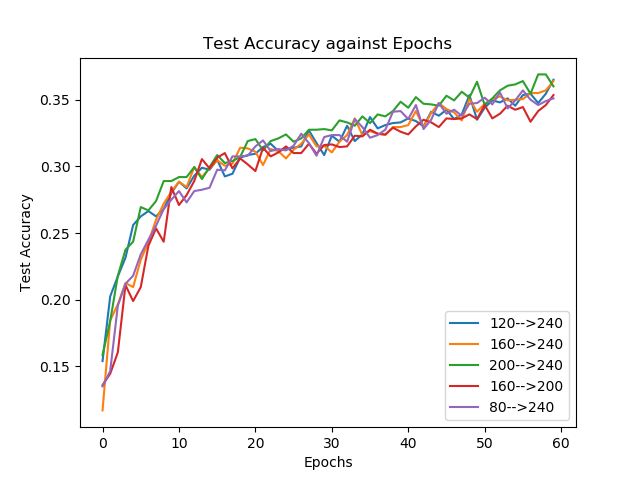
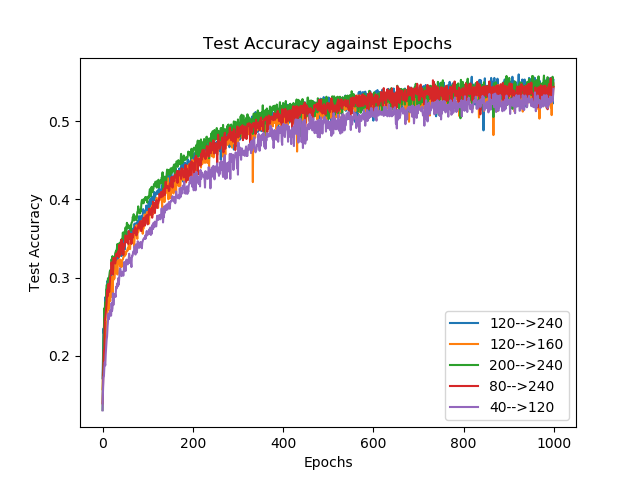
Project 2 Part A completed

diff --git a/src/part_a/part_a_qn_3.py b/src/part_a/part_a_qn_3.py
@@ -14,8 +14,8 @@ IMG_SIZE = 32
 NUM_CHANNELS = 3
 learning_rate = 0.001
 epochs = 1000
+num_c1, num_c2 = 120, 240
 batch_size = 128
-NUM_FEATURE_MAPS = [40, 80, 120, 160, 200, 240]
 
 seed = 10
 random.seed(seed)
@@ -74,12 +74,15 @@ def cnn(images, c1, c2):
 
     h_fc1 = tf.nn.relu(tf.matmul(h_pool2_flat, W_fc1) + b_fc1)
 
+    keep_prob = tf.placeholder(tf.float32)
+    h_fc1_drop = tf.nn.dropout(h_fc1, keep_prob)
+
     # Softmax layer
     W_fc2 = weight_variable([300, 10], 1.0 / np.sqrt(300), 'weights_fc2')
     b_fc2 = bias_variable([10], 'biases_fc2')
 
-    logits = tf.matmul(h_fc1, W_fc2) + b_fc2
-    return logits
+    logits = tf.matmul(h_fc1_drop, W_fc2) + b_fc2
+    return logits, keep_prob
 
 
 def weight_variable(shape, stddev, name):
@@ -106,65 +109,66 @@ def main():
     x = tf.placeholder(tf.float32, [None, IMG_SIZE * IMG_SIZE * NUM_CHANNELS])
     y_ = tf.placeholder(tf.float32, [None, NUM_CLASSES])
 
-    all_test_acc = {}
-    last_test_acc = {}
-    for c1 in range(len(NUM_FEATURE_MAPS)):
-        for c2 in range(c1 + 1, len(NUM_FEATURE_MAPS)):
-            num_c1, num_c2 = NUM_FEATURE_MAPS[c1], NUM_FEATURE_MAPS[c2]
-            label = "{}-->{}".format(num_c1, num_c2)
-            print("Feature maps combination: {}".format(label))
+    logits, keep_prob = cnn(x, num_c1, num_c2)
 
-            logits = cnn(x, num_c1, num_c2)
+    cross_entropy = tf.nn.softmax_cross_entropy_with_logits_v2(labels=y_, logits=logits)
+    loss = tf.reduce_mean(cross_entropy)
 
-            cross_entropy = tf.nn.softmax_cross_entropy_with_logits_v2(labels=y_, logits=logits)
-            loss = tf.reduce_mean(cross_entropy)
+    train_step_a = tf.train.MomentumOptimizer(learning_rate, 0.1).minimize(loss)
+    train_step_b = tf.train.RMSPropOptimizer(learning_rate).minimize(loss)
+    train_step_c = tf.train.AdamOptimizer(learning_rate).minimize(loss)
+    train_step_d = tf.train.GradientDescentOptimizer(learning_rate).minimize(loss)
 
-            train_step = tf.train.GradientDescentOptimizer(learning_rate).minimize(loss)
+    correct_prediction = tf.equal(tf.argmax(logits, 1), tf.argmax(y_, 1))
+    correct_prediction = tf.cast(correct_prediction, tf.float32)
+    accuracy = tf.reduce_mean(correct_prediction)
 
-            correct_prediction = tf.equal(tf.argmax(logits, 1), tf.argmax(y_, 1))
-            correct_prediction = tf.cast(correct_prediction, tf.float32)
-            accuracy = tf.reduce_mean(correct_prediction)
+    model_dict = {
+        "Momentum": (train_step_a, 1.0),
+        "RMSProp": (train_step_b, 1.0),
+        "Adam": (train_step_c, 1.0),
+        "Dropout": (train_step_d, 0.5)
+    }
 
-            N = len(trainX)
-            idx = np.arange(N)
-            with tf.Session() as sess:
-                sess.run(tf.global_variables_initializer())
+    N = len(trainX)
+    idx = np.arange(N)
+    with tf.Session() as sess:
 
-                test_acc = []
-                for e in range(epochs):
-                    np.random.shuffle(idx)
-                    trainX, trainY = trainX[idx], trainY[idx]
+        for model_name, model in model_dict.items():
 
-                    for start, end in zip(range(0, N, batch_size), range(batch_size, N, batch_size)):
-                        _ = sess.run([train_step], {x: trainX[start:end], y_: trainY[start:end]})
+            train_step, keep_prob_value = model
 
-                    accuracy_ = sess.run([accuracy], {x: testX, y_: testY})
-                    test_acc.append(accuracy_[0])
+            print("Model: {}".format(model_name))
+            sess.run(tf.global_variables_initializer())
 
-                    if e % (epochs // 5) == 0 or e == epochs - 1:
-                        print('epoch {0:5d}: Test Acc: {1:8.4f}'.format(e + 1, test_acc[e]))
+            train_loss = []
+            test_acc = []
+            for e in range(epochs):
+                np.random.shuffle(idx)
+                trainX, trainY = trainX[idx], trainY[idx]
 
-                all_test_acc[label] = test_acc
-                last_test_acc[label] = test_acc[-1]
+                for start, end in zip(range(0, N, batch_size), range(batch_size, N, batch_size)):
+                    _ = sess.run([train_step], {x: trainX[start:end], y_: trainY[start:end], keep_prob: keep_prob_value})
 
-    sorted_last_test_acc = {}
-    for key in sorted(last_test_acc, key=last_test_acc.get, reverse=True)[:5]:
-        sorted_last_test_acc.update({key: last_test_acc[key]})
+                loss1_ = sess.run([loss], {x: trainX[:5000], y_: trainY[:5000], keep_prob: 1.0})
+                loss2_ = sess.run([loss], {x: trainX[5000:], y_: trainY[5000:], keep_prob: 1.0})
+                accuracy_ = sess.run([accuracy], {x: testX, y_: testY, keep_prob: 1.0})
+                train_loss.append((loss1_[0] + loss2_[0])/2)
+                test_acc.append(accuracy_[0])
 
-    print(sorted_last_test_acc)
+                if e % (epochs // 10) == 0 or e == epochs - 1:
+                    print('epoch {0:5d}: Test Acc: {1:8.4f} Train Cost: {2:8.4f}'.format(e + 1, test_acc[e], train_loss[e]))
 
-    # plot learning curves
-    plt.figure(1)
-    for key_label in sorted_last_test_acc:
-        plt.plot(range(epochs), all_test_acc.get(key_label), label=key_label)
-    plt.title('Test Accuracy against Epochs')
-    plt.xlabel('Epochs')
-    plt.ylabel('Test Accuracy')
-    plt.legend(loc='best')
-    plt.savefig('./Qn2/part_a_qn2.png')
+            plt.figure()
+            plt.plot(range(epochs), train_loss, 'b', label='Training Cost')
+            plt.plot(range(epochs), test_acc, 'r', label='Test Accuracy')
+            plt.title('Training Cost and Test Accuracy against Epochs ({})'.format(model_name))
+            plt.xlabel('Epochs')
+            plt.ylabel('Cost and Accuracy')
+            plt.legend(loc='best')
+            plt.savefig('part_a_qn3-{}.png'.format(model_name))
 
     plt.show()
-
 
 if __name__ == '__main__':
     main()
